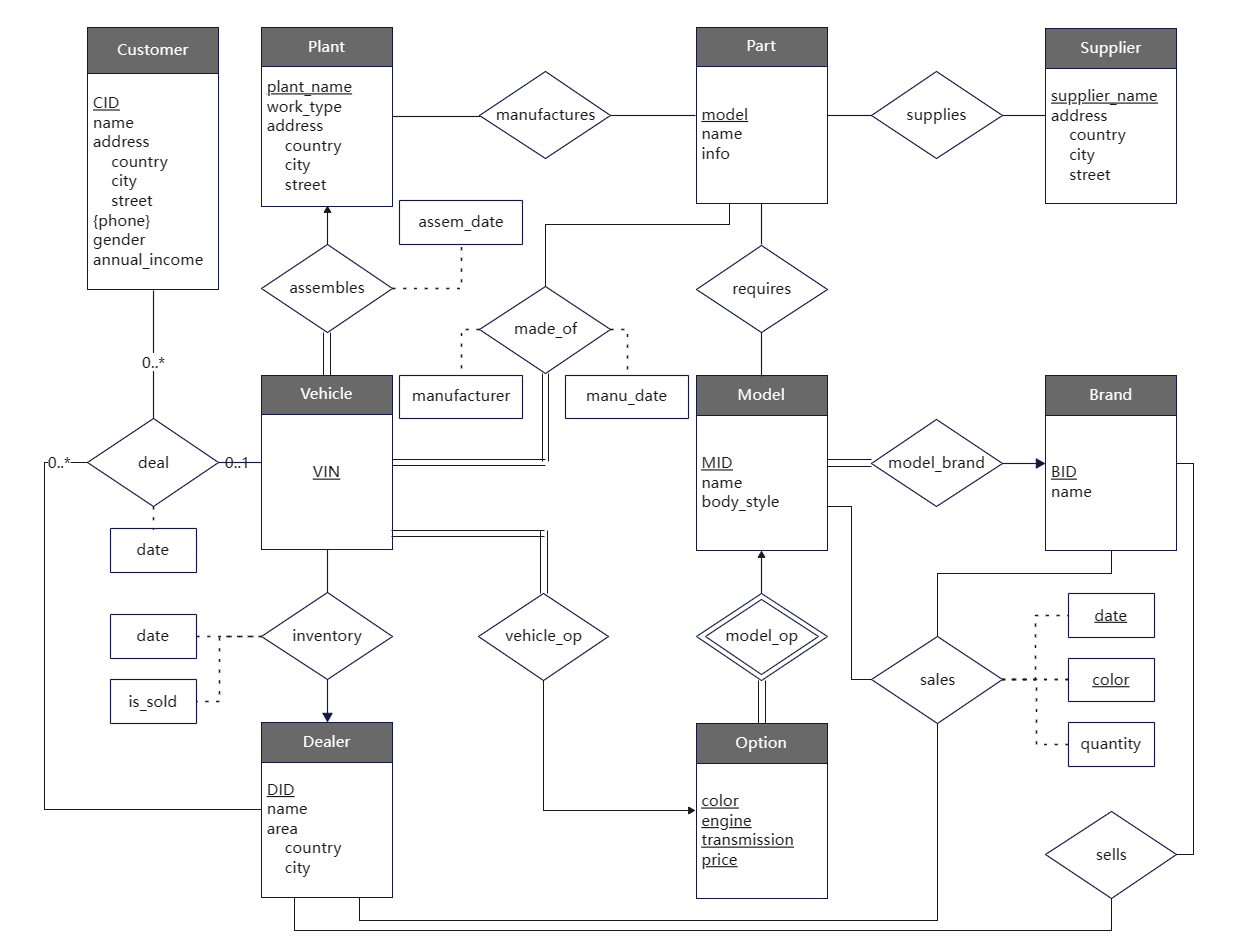
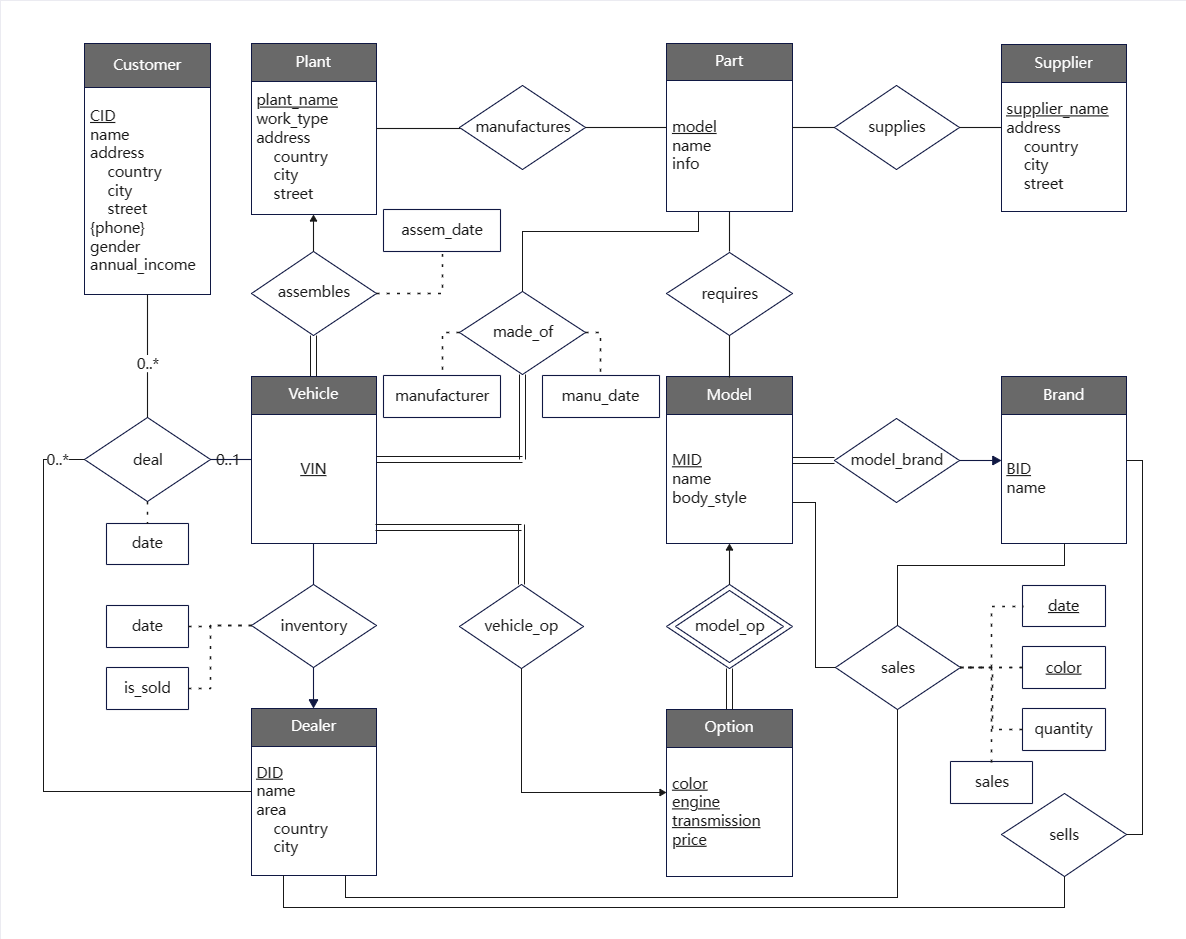
dev(*): sales by dealers

diff --git a/website/templates/marketing/bydealer.html b/website/templates/marketing/bydealer.html
@@ -1,89 +1,78 @@
 {% extends 'base.html' %}
 
 {% block header %}
-<h1>{% block title %}销量分析系统-按经销商{% endblock %}</h1>
+<h1>{% block title %}汽车销量分析系统-按经销商{% endblock %}</h1>
 {% endblock %}
 
 {% block content %}
-<form id="timeForm" method="post">
-    <label for="time">品牌：</label>
-    <select name="time" id="time" onchange="document.getElementById('timeForm').submit();">
-        <option value="{{ brand }}" selected>{{ brand }}</option>
+<form id="myForm" method="post">
+    <text>开始时间：</text>
+    <nobr>
+        <select name="begin_year" id="begin_year" onchange="document.getElementById('myForm').submit();">
+            {% for year in years %}
+                {% if year == session["begin_year"] %}
+                    <option value="{{ year }}" selected>{{ year }}</option>
+                {% else %}
+                    <option value="{{ year }}">{{ year }}</option>
+                {% endif %}
+            {% endfor %}
+        </select>
+        <label for="begin_year">年</label>
+        <select name="begin_month" id="begin_month" onchange="document.getElementById('myForm').submit();">
+            {% for month in months %}
+                {% if month == session["begin_month"] %}
+                    <option value="{{ month }}" selected>{{ month }}</option>
+                {% else %}
+                    <option value="{{ month }}">{{ month }}</option>
+                {% endif %}
+            {% endfor %}
+        </select>
+        <label for="begin_month">月</label>
+    </nobr>
+    <text>结束时间：</text>
+    <nobr>
+        <select name="end_year" id="end_year" onchange="document.getElementById('myForm').submit();">
+            {% for year in years %}
+                {% if year == session["end_year"] %}
+                    <option value="{{ year }}" selected>{{ year }}</option>
+                {% else %}
+                    <option value="{{ year }}">{{ year }}</option>
+                {% endif %}
+            {% endfor %}
+        </select>
+        <label for="end_year">年</label>
 
-    </select>
-</form>
+        <select name="end_month" id="end_month" onchange="document.getElementById('myForm').submit();">
+            {% for month in months %}
+                {% if month == session["end_month"] %}
+                    <option value="{{ month }}" selected>{{ month }}</option>
+                {% else %}
+                    <option value="{{ month }}">{{ month }}</option>
+                {% endif %}
+            {% endfor %}
+        </select>
+        <label for="end_month">月</label>
+    </nobr>
 
-<form id="modelForm" method="post">
-    <label for="model">车型：</label>
-    <select name="model" id="model" onchange="document.getElementById('modelForm').submit();" >
-        {% for model in models %}
-            {% if model == session["selected_model"]["name"] %}
-                <option value="{{ model }}" selected>{{ model }}</option>
-            {% else %}
-                <option value="{{ model }}">{{ model }}</option>
-            {% endif %}
-        {% endfor %}
-    </select>
-</form>
-
-<form id="colorForm" method="post">
-    <label for="color">颜色：</label>
-    <select name="color" id="color" onchange="document.getElementById('colorForm').submit();" >
-        {% for color in colors %}
-            {% if color == session["selected_color"] %}
-                <option value="{{ color }}" selected>{{ color }}</option>
-            {% else %}
-                <option value="{{ color }}">{{ color }}</option>
-            {% endif %}
-        {% endfor %}
-    </select>
-</form>
-
-<form id="engineForm" method="post">
-    <label for="engine">引擎：</label>
-    <select name="engine" id="engine" onchange="document.getElementById('engineForm').submit();" >
-        {% for engine in engines %}
-            {% if engine == session["selected_engine"] %}
-                <option value="{{ engine }}" selected>{{ engine }}</option>
-            {% else %}
-                <option value="{{ engine }}">{{ engine }}</option>
-            {% endif %}
-        {% endfor %}
-    </select>
-</form>
-
-<form id="transmissionForm" method="post">
-    <label for="transmission">变速器：</label>
-    <select name="transmission" id="transmission" onchange="document.getElementById('transmissionForm').submit();" >
-        {% for transmission in transmissions %}
-            {% if transmission == session["selected_transmission"] %}
-                <option value="{{ transmission }}" selected>{{ transmission }}</option>
-            {% else %}
-                <option value="{{ transmission }}">{{ transmission }}</option>
-            {% endif %}
-        {% endfor %}
-    </select>
 </form>
 
 <table border="1">
     <tr>
-        <th>品牌</th>
-        <th>车型</th>
-        <th>颜色</th>
-        <th>引擎</th>
-        <th>变速器</th>
-        <th>价格</th>
-        <th>库存</th>
+        <th>DID</th>
+        <th>经销商</th>
+        <th>国家</th>
+        <th>城市</th>
+        <th>销量</th>
+        <th>销售额</th>
     </tr>
-    {% for vehicle in vehicles %}
+    {% for row in result %}
         <tr>
-            <td>{{ vehicle.brand }}</td>
-            <td>{{ vehicle.model }}</td>
-            <td>{{ vehicle.color }}</td>
-            <td>{{ vehicle.engine }}</td>
-            <td>{{ vehicle.transmission }}</td>
-            <td>{{ vehicle.price }}</td>
-            <td>{{ vehicle.stock }}</td>
+            <td>{{ row.did }}</td>
+            <td>{{ row.name }}</td>
+            <td>{{ row.country }}</td>
+            <td>{{ row.city }}</td>
+            <td>{{ row.quantity }}</td>
+            <td>{{ row.sales }}</td>
         </tr>
     {% endfor %}
 </table>

diff --git a/website/marketing.py b/website/marketing.py
@@ -1,5 +1,6 @@
 from flask import Blueprint, flash, session, redirect, render_template, request, url_for
 from werkzeug.exceptions import abort
+from datetime import date
 
 from database import db
 from database.models import *
@@ -55,25 +56,41 @@ def byvehicle():
 def bydealer():
     error = None
 
-    if request.method == "POST":
-        if "type" in request.form:
-            if request.form["type"] == "time":
-                return redirect(url_for("marketing.bytime"))
-            elif request.form["type"] == "vehicle":
-                return redirect(url_for("marketing.byvehicle"))
-            elif request.form["type"] == "dealer":
-                return redirect(url_for("marketing.bydealer"))
-            elif request.form["type"] == "customer":
-                return redirect(url_for("marketing.bycustomer"))
-            else:
-                error = "Invalid form."
-        else:
-            error = "Invalid form."
+    today = date.today()
+    years = [y for y in range(today.year - 10, today.year + 1)]
+    months = [m for m in range(1, 13)]
+
+    if request.method == "GET":
+        session["begin_year"] = today.year - 10
+        session["begin_month"] = 1
+        session["end_year"] = today.year
+        session["end_month"] = today.month
+    else:
+        session["begin_year"] = int(request.form["begin_year"])
+        session["begin_month"] = int(request.form["begin_month"])
+        session["end_year"] = int(request.form["end_year"])
+        session["end_month"] = int(request.form["end_month"])
+
+    query = (
+        db.session.query(
+            Dealer.did,
+            Dealer.name,
+            Dealer.country,
+            Dealer.city,
+            db.func.sum(Sales.quantity).label("quantity"),
+            db.func.sum(Sales.sales).label("sales"),
+        )
+        .join(Sales)
+        .filter(Sales.date >= f"{session['begin_year']}-{session['begin_month']}-01")
+        .filter(Sales.date <= f"{session['end_year']}-{session['end_month']}-31")
+        .group_by(Dealer.did)
+    )
+    result = query.all()
 
     if error:
         flash(error)
 
-    return render_template("marketing/index.html")
+    return render_template("marketing/bydealer.html", result=result, years=years, months=months)
 
 
 @bp.route("/bycustomer", methods=("GET", "POST"))

diff --git a/Report/main.tex b/Report/main.tex
@@ -195,7 +195,7 @@ E-R 图中的联系集以及对应的映射基数和参与约束解释如下：
         vehicle\_op(\underline{VIN}, \underline{MID}, \underline{color}, \underline{engine}, \underline{transmission})\\
         sells(\underline{DID}, \underline{BID})\\
         inventory(\underline{VIN}, DID, year, monty, day, is\_sold)\\
-        sales(\underline{BID}, \underline{MID}, \underline{color} \underline{DID}, \underline{year}, \underline{monty}, \underline{day}, quantity)\\
+        sales(\underline{BID}, \underline{MID}, \underline{color} \underline{DID}, \underline{year}, \underline{monty}, \underline{day}, quantity, sales)\\
         deal(\underline{VIN}, DID, CID, year, monty, day)
     \end{tabular}
 \end{center}
@@ -222,7 +222,7 @@ E-R 图中的联系集以及对应的映射基数和参与约束解释如下：
         made\_of(\underline{VIN}, \underline{part\_model}, manufacturer, year, monty, day)\\
         sells(\underline{DID}, \underline{BID})\\
         inventory(\underline{VIN}, DID, year, month, day, is\_sold)\\
-        sales(\underline{BID}, \underline{MID}, \underline{color}, \underline{DID}, \underline{year}, \underline{monty}, \underline{day}, quantity)\\
+        sales(\underline{BID}, \underline{MID}, \underline{color}, \underline{DID}, \underline{year}, \underline{monty}, \underline{day}, quantity, sales)\\
         deal(\underline{VIN}, DID, CID, year, monty, day)
     \end{tabular}
 \end{center}

diff --git a/database/import_data.py b/database/import_data.py
@@ -246,8 +246,15 @@ def import_test_data(
                 customer_gender=customer.gender,
                 customer_income_range=int(customer.annual_income/10000),
             ).first()
+            option = Option.query.filter_by(
+                mid=vehicle.mid,
+                color=vehicle.color,
+                engine=vehicle.engine,
+                transmission=vehicle.transmission,
+            ).first()
             if sales:
                 sales.quantity += 1
+                sales.sales += option.price
             else:
                 sales = Sales(
                     bid=bid,
@@ -258,5 +265,6 @@ def import_test_data(
                     customer_gender=customer.gender,
                     customer_income_range=int(customer.annual_income/10000),
                     quantity=1,
+                    sales=option.price,
                 )
                 add(sales)

diff --git a/database/models.py b/database/models.py
@@ -108,6 +108,7 @@ class Sales(db.Model):
     customer_gender = db.Column(db.String(NAME_LEN), primary_key=True)
     customer_income_range = db.Column(db.Integer, primary_key=True)
     quantity = db.Column(db.Integer, nullable=False)
+    sales = db.Column(db.Float, nullable=False)
     db.CheckConstraint(quantity >= 0)
     db.CheckConstraint("""
         color IN (
@@ -116,6 +117,9 @@ class Sales(db.Model):
             WHERE mid = model.mid
         )
     """)
+    brand = db.relationship("Brand", backref="sales")
+    model = db.relationship("Model", backref="sales")
+    dealer = db.relationship("Dealer", backref="sales")
 
 class Deal(db.Model):
     vin = db.Column(db.String(NAME_LEN), db.ForeignKey("vehicle.vin"), primary_key=True)
